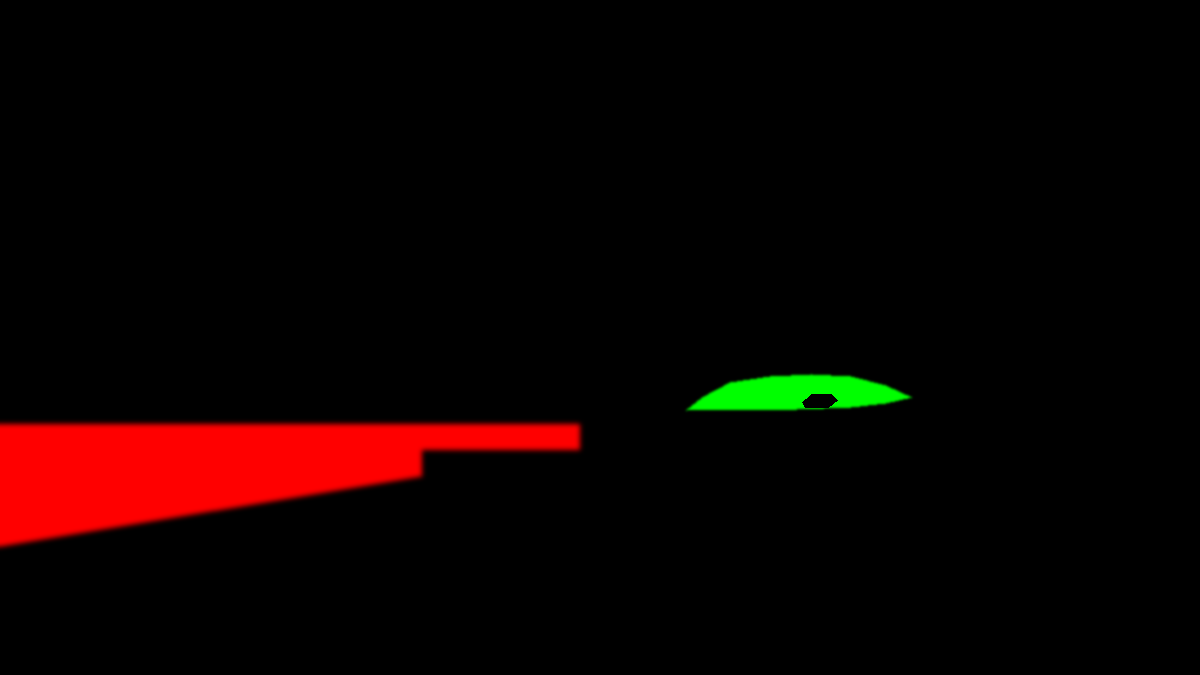
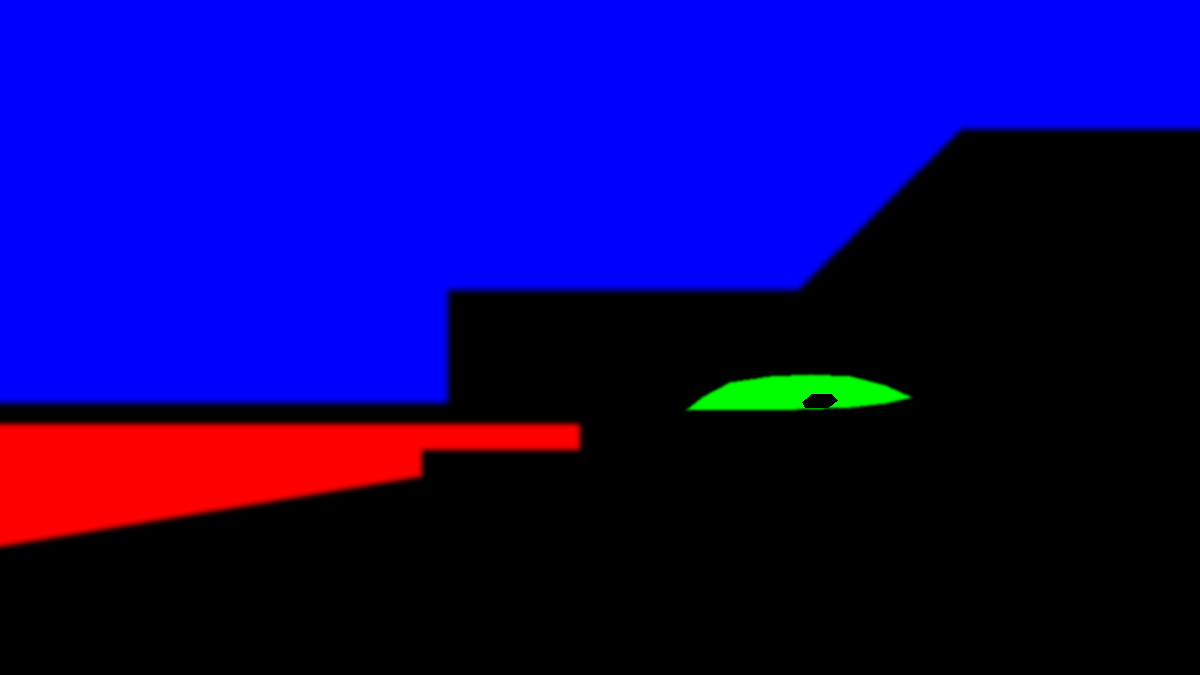
Link cliente: textos más limpios, colores compactos, formulario legible y nubes
Claude-Session: https://claude.ai/code/session_01HSc3jk8XqcSgWPWRuwxs9f

diff --git a/index.html b/index.html
@@ -168,19 +168,20 @@ p{margin:0}
 
 /* Colores */
 .colors{background:linear-gradient(180deg,var(--blush) 0%,#ece7ee 100%)}
-.stage{position:relative;aspect-ratio:2.25/1;max-width:1100px;margin:clamp(16px,3vw,32px) auto 0;overflow:hidden}
-.stage img{position:absolute;inset:0;width:100%;height:100%;object-fit:cover;object-position:50% 72%;opacity:0;transform:translateX(2%);transition:opacity 1.2s var(--ease),transform 1.6s var(--ease)}
+.colors{padding:clamp(64px,7vw,104px) 0}
+.stage{position:relative;aspect-ratio:2.9/1;width:min(100%,1100px,calc((100svh - 290px)*2.9));margin:clamp(8px,1.6vw,20px) auto 0;overflow:hidden}
+.stage img{position:absolute;inset:0;width:100%;height:100%;object-fit:cover;object-position:50% 56%;opacity:0;transform:translateX(2%);transition:opacity 1.2s var(--ease),transform 1.6s var(--ease)}
 .stage img.on{opacity:1;transform:none}
 .stage img.ghost{filter:brightness(0) invert(14%)}
 .stage img.ghost.on{opacity:.07}
 .stage.soon::before{content:attr(data-soon);position:absolute;left:50%;top:50%;transform:translate(-50%,-50%);z-index:2;width:80%;text-align:center;font-size:13px;font-weight:600;letter-spacing:.2em;text-transform:uppercase;color:var(--mute);line-height:1.6}
-.sw-row{display:flex;flex-wrap:wrap;justify-content:center;gap:10px;margin-top:8px}
+.sw-row{display:flex;flex-wrap:wrap;justify-content:center;gap:10px;margin-top:0}
 .sw{width:44px;height:44px;border-radius:50%;border:1px solid rgba(42,36,48,.18);padding:4px;background:transparent;cursor:pointer;transition:border-color .4s,transform .4s}
 .sw i{display:block;width:100%;height:100%;border-radius:50%;box-shadow:inset 0 -6px 10px rgba(0,0,0,.18),inset 0 4px 8px rgba(255,255,255,.35)}
 .sw[aria-checked="true"]{border-color:var(--ink);transform:scale(1.06)}
 .sw:hover{border-color:rgba(42,36,48,.5)}
 .sw:focus-visible{outline:2px solid var(--caramel);outline-offset:3px}
-.cname{margin-top:22px;font-size:20px}
+.cname{margin-top:14px;font-size:20px}
 .cname small{display:block;font-size:13px;color:var(--mute);margin-top:6px}
 @media(min-width:768px){.sw-row{gap:14px}}
 
@@ -271,12 +272,13 @@ details[open] .pm::after{transform:translate(-50%,-50%) rotate(0)}
 /* Experiencia privada */
 .book{position:relative;overflow:hidden;background:#c9d6ea}
 .book-bg{position:absolute;inset:0}
-.book-bg img{width:100%;height:100%;object-fit:cover;object-position:50% 55%}
-.book::after{content:"";position:absolute;inset:0;background:linear-gradient(90deg,rgba(238,240,245,.88) 0%,rgba(238,240,245,.55) 48%,rgba(238,240,245,0) 80%)}
+.book-bg img{width:100%;height:100%;object-fit:cover;object-position:50% 55%;filter:blur(6px);transform:scale(1.04)}
+.book::after{content:"";position:absolute;inset:0;background:linear-gradient(90deg,rgba(246,247,250,.95) 0%,rgba(246,247,250,.78) 50%,rgba(246,247,250,.25) 85%)}
+.book .lead-t{color:var(--ink)}
 .book .wrap{position:relative;z-index:2}
 .bgrid{display:grid;gap:clamp(36px,5vw,72px);align-items:center}
 @media(min-width:992px){.bgrid{grid-template-columns:1fr 1fr}}
-@media(max-width:991px){.book::after{background:linear-gradient(180deg,rgba(238,240,245,.9) 0%,rgba(238,240,245,.75) 100%)}}
+@media(max-width:991px){.book::after{background:linear-gradient(180deg,rgba(246,247,250,.94) 0%,rgba(246,247,250,.82) 100%)}}
 .glass{background:rgba(255,255,255,.5);border:1px solid rgba(255,255,255,.75);border-radius:18px;padding:clamp(22px,3vw,36px);backdrop-filter:blur(24px) saturate(150%);-webkit-backdrop-filter:blur(24px) saturate(150%);box-shadow:0 20px 60px rgba(42,36,48,.1)}
 .fld{margin-bottom:16px}
 .fld label,.fld legend{display:block;font-size:13px;font-weight:600;color:var(--ink-2);margin-bottom:8px;float:none}
@@ -295,7 +297,7 @@ details[open] .pm::after{transform:translate(-50%,-50%) rotate(0)}
 .err{display:none;color:#a2453a;font-size:13px;margin-top:6px}
 .fld.bad .err{display:block}
 .fld.bad input{border-color:#c0675b}
-.fine{font-size:12.5px;color:var(--mute);margin-top:14px;line-height:1.5}
+.fine{font-size:13px;color:var(--ink-2);margin-top:14px;line-height:1.5}
 
 /* Footer */
 footer{background:var(--plum);color:#a69ea6;padding:64px 0 40px;font-size:14px}
@@ -532,7 +534,6 @@ en tu mundo.</h2>
 <!-- 3. EQUILIBRIO / ALIANZA -->
 <section class="sec" id="alianza">
   <div class="wrap center">
-    <p class="eyebrow rv" data-i18n="al_eye">Equilibrio</p>
     <h2 class="h-l manif rv d1" data-i18n="al_title">Todo lo que te rodea, en equilibrio.</h2>
     <p class="lead-t rv d2" style="max-width:58ch;margin:24px auto 0" data-i18n="al_lead">AVATR nace en 2018 de la unión de tres líderes, con una idea simple: que la tecnología más avanzada se sienta como calma.</p>
   </div>
@@ -557,7 +558,7 @@ en tu mundo.</h2>
       <img src="img/ext-trasera.webp" alt="AVATR 11 vista trasera" data-i18n-alt="a_t5" loading="lazy">
     </div>
     <div class="tour-head"><div class="wrap">
-      <p class="eyebrow" data-i18n="d_eye">Diseño</p>
+      <p class="eyebrow" data-i18n="d_eye">Diseño futurista</p>
       <h2 class="h-l" style="margin-top:14px;max-width:12ch" data-i18n="d_title">Rodéala con calma.</h2>
     </div></div>
     <div class="tour-cap"><div class="wrap">
@@ -587,8 +588,7 @@ en tu mundo.</h2>
 <!-- 6. COLORES -->
 <section class="sec colors" id="colores">
   <div class="wrap center">
-    <p class="eyebrow rv" data-i18n="c_eye">Colores</p>
-    <h2 class="h-l rv d1" style="margin-top:18px" data-i18n="c_title">Elige tu tono.</h2>
+    <h2 class="h-l rv d1"  data-i18n="c_title">Elige tu tono.</h2>
     <div class="stage rv d2" id="stage" aria-live="polite"></div>
     <div class="sw-row" role="radiogroup" aria-label="Color exterior" data-i18n-aria="c_aria" id="swatches"></div>
     <p class="cname" id="cname"></p>
@@ -598,8 +598,7 @@ en tu mundo.</h2>
 <!-- 7. MOMENTOS -->
 <section class="sec" id="momentos">
   <div class="wrap">
-    <p class="eyebrow rv" data-i18n="m_eye">Tu semana</p>
-    <h2 class="h-l rv d1" style="margin-top:18px;max-width:16ch" data-i18n="m_title">Del lunes al domingo, en calma.</h2>
+    <h2 class="h-l rv d1" style="max-width:16ch" data-i18n="m_title">Del lunes al domingo, en calma.</h2>
     <div class="moments">
       <article class="mcard rv"><img src="img/vida-playa.webp" alt="AVATR 11 blanca con una tabla de surf en la playa al atardecer" data-i18n-alt="a_beach" loading="lazy"><div class="tx"><p class="k" data-i18n="m1_k">Fin de semana</p><h3 data-i18n="m1_t">Espacio para lo que te mueve</h3><p data-i18n="m1_p">Hasta 625 km de autonomía para llegar lejos y volver sin prisa.</p></div></article>
       <article class="mcard rv d1"><img src="img/vida-ciudad.webp" alt="AVATR 11 negra en movimiento por una calle de la ciudad" data-i18n-alt="a_city" loading="lazy"><div class="tx"><p class="k" data-i18n="m2_k">Entre semana</p><h3 data-i18n="m2_t">El tráfico se siente distinto</h3><p data-i18n="m2_p">Cuando la cabina es silencio, el camino al trabajo también es tuyo.</p></div></article>
@@ -713,8 +712,7 @@ en tu mundo.</h2>
 <!-- 11. PROPIETARIOS -->
 <section class="sec" id="propietarios" style="background:linear-gradient(180deg,var(--pearl),var(--blush))">
   <div class="wrap">
-    <p class="eyebrow rv" data-i18n="o_eye">Propietarios</p>
-    <h2 class="h-l rv d1" style="margin-top:18px;max-width:18ch" data-i18n="o_title">La experiencia continúa después de la entrega.</h2>
+    <h2 class="h-l rv d1" style="max-width:18ch" data-i18n="o_title">La experiencia continúa después de la entrega.</h2>
     <div class="after">
       <div class="acard rv"><p class="k">Mi AVATR</p><h3 data-i18n="o1_t">Te avisamos cuándo toca tu servicio</h3><p data-i18n="o1_p">Con tu fecha de entrega y una foto de tu tablero calculamos tu próximo servicio. Lo agendas con un mensaje.</p></div>
       <div class="acard rv d1"><p class="k">OTA</p><h3 data-i18n="o2_t">Un auto que mejora con el tiempo</h3><p data-i18n="o2_p">Nuevas funciones y mejoras llegan por actualizaciones remotas, sin visitar el taller.</p></div>
@@ -816,7 +814,7 @@ al2_t:'Intelligence and power', al2_p:'The oil-cooled DriveONE propulsion system
 al3_t:'Safe energy', al3_p:'A 116 kWh battery with thermal runaway monitoring and early warnings from its management system.',
 al4_w:'Design', al4_t:'Conceived in Munich', al4_p:'Its design language was born at AVATR’s global design center in Germany.',
 a_tour:'A walk around the AVATR 11', a_t1:'AVATR 11 front view', a_t2:'AVATR 11 front view at 45 degrees', a_t3:'AVATR 11 side view', a_t4:'AVATR 11 rear view at 70 degrees', a_t5:'AVATR 11 rear view',
-d_eye:'Design', d_title:'Walk around it, calmly.',
+d_eye:'Futuristic design', d_title:'Walk around it, calmly.',
 a_det:'Front of the AVATR 11 in Liquid Caramel seen from above',
 lc_eye:'Liquid Caramel', lc_title:'A tone that changes with the light.',
 lc_lead:'Rosy at sunrise, golden at sunset. A warm color that goes with every hour of the day without drawing too much attention.',
@@ -1012,8 +1010,10 @@ onScroll();
   const hp=gl.getShaderPrecisionFormat(gl.FRAGMENT_SHADER,gl.HIGH_FLOAT).precision>0?'highp':'mediump';
   const VS='attribute vec2 p;void main(){gl_Position=vec4(p,0.,1.);}';
   const FS=`precision ${hp} float;uniform sampler2D T,M;uniform vec2 R,S,O;uniform float t,dpr;
+  float hs(vec2 p){return fract(sin(dot(p,vec2(127.1,311.7)))*43758.5453);}
+  float vn(vec2 p){vec2 i=floor(p),f=fract(p);f=f*f*(3.-2.*f);return mix(mix(hs(i),hs(i+vec2(1,0)),f.x),mix(hs(i+vec2(0,1)),hs(i+1.),f.x),f.y);}
   void main(){vec2 px=vec2(gl_FragCoord.x,R.y-gl_FragCoord.y);vec2 uv=(px-O)/S;
-    vec4 m=texture2D(M,uv);float sea=m.r,gm=m.g;
+    vec4 m=texture2D(M,uv);float sea=m.r,gm=m.g,sky=m.b;
     float depth=clamp((uv.y-.62)/.19,0.,1.);float amp=mix(.15,1.,depth);
     vec2 d=vec2(sin(uv.y*700.-t*1.6+sin(uv.x*35.+t*.5)*2.5)*.0013,sin(uv.y*420.-t*2.1+sin(uv.x*60.-t*.6)*1.6)*.002+sin(uv.y*160.-t*.9+uv.x*18.)*.0009)*amp*sea;
     vec3 c=texture2D(T,uv+d).rgb;
@@ -1023,6 +1023,8 @@ onScroll();
     float k=uv.x+uv.y*.62;float cyc=mod(t,6.);float ctr=mix(.88,1.16,clamp(cyc/1.73,0.,1.));float on=step(cyc,1.85);
     float band=exp(-pow((k-ctr)/.0085,2.))*.6+exp(-pow((k-ctr)/.035,2.))*.16;
     c+=vec3(1.,.95,.86)*band*gm*on;
+    if(sky>.01){vec2 q=uv*vec2(2.2,6.5)+vec2(t*.012,0.);float n=0.,a=.5;for(int o=0;o<5;o++){n+=a*vn(q);q=q*2.03+vec2(1.7,9.2);a*=.5;}
+      float cl=smoothstep(.5,.82,n)*sky*smoothstep(.62,.25,uv.y);c=mix(c,vec3(1.,.985,.975),cl*.32);}
     vec2 ip=uv*vec2(2400.,1350.);float bird=0.;
     for(int i=0;i<6;i++){float fi=float(i);float sp=.010+fract(fi*.37)*.006;float ph=fract(fi*.173+t*sp);
       vec2 bp=vec2(mix(1150.,260.,ph),705.+fract(fi*.61)*95.+sin(t*.35+fi*1.7)*7.);float sz=7.+fract(fi*.83)*4.;
